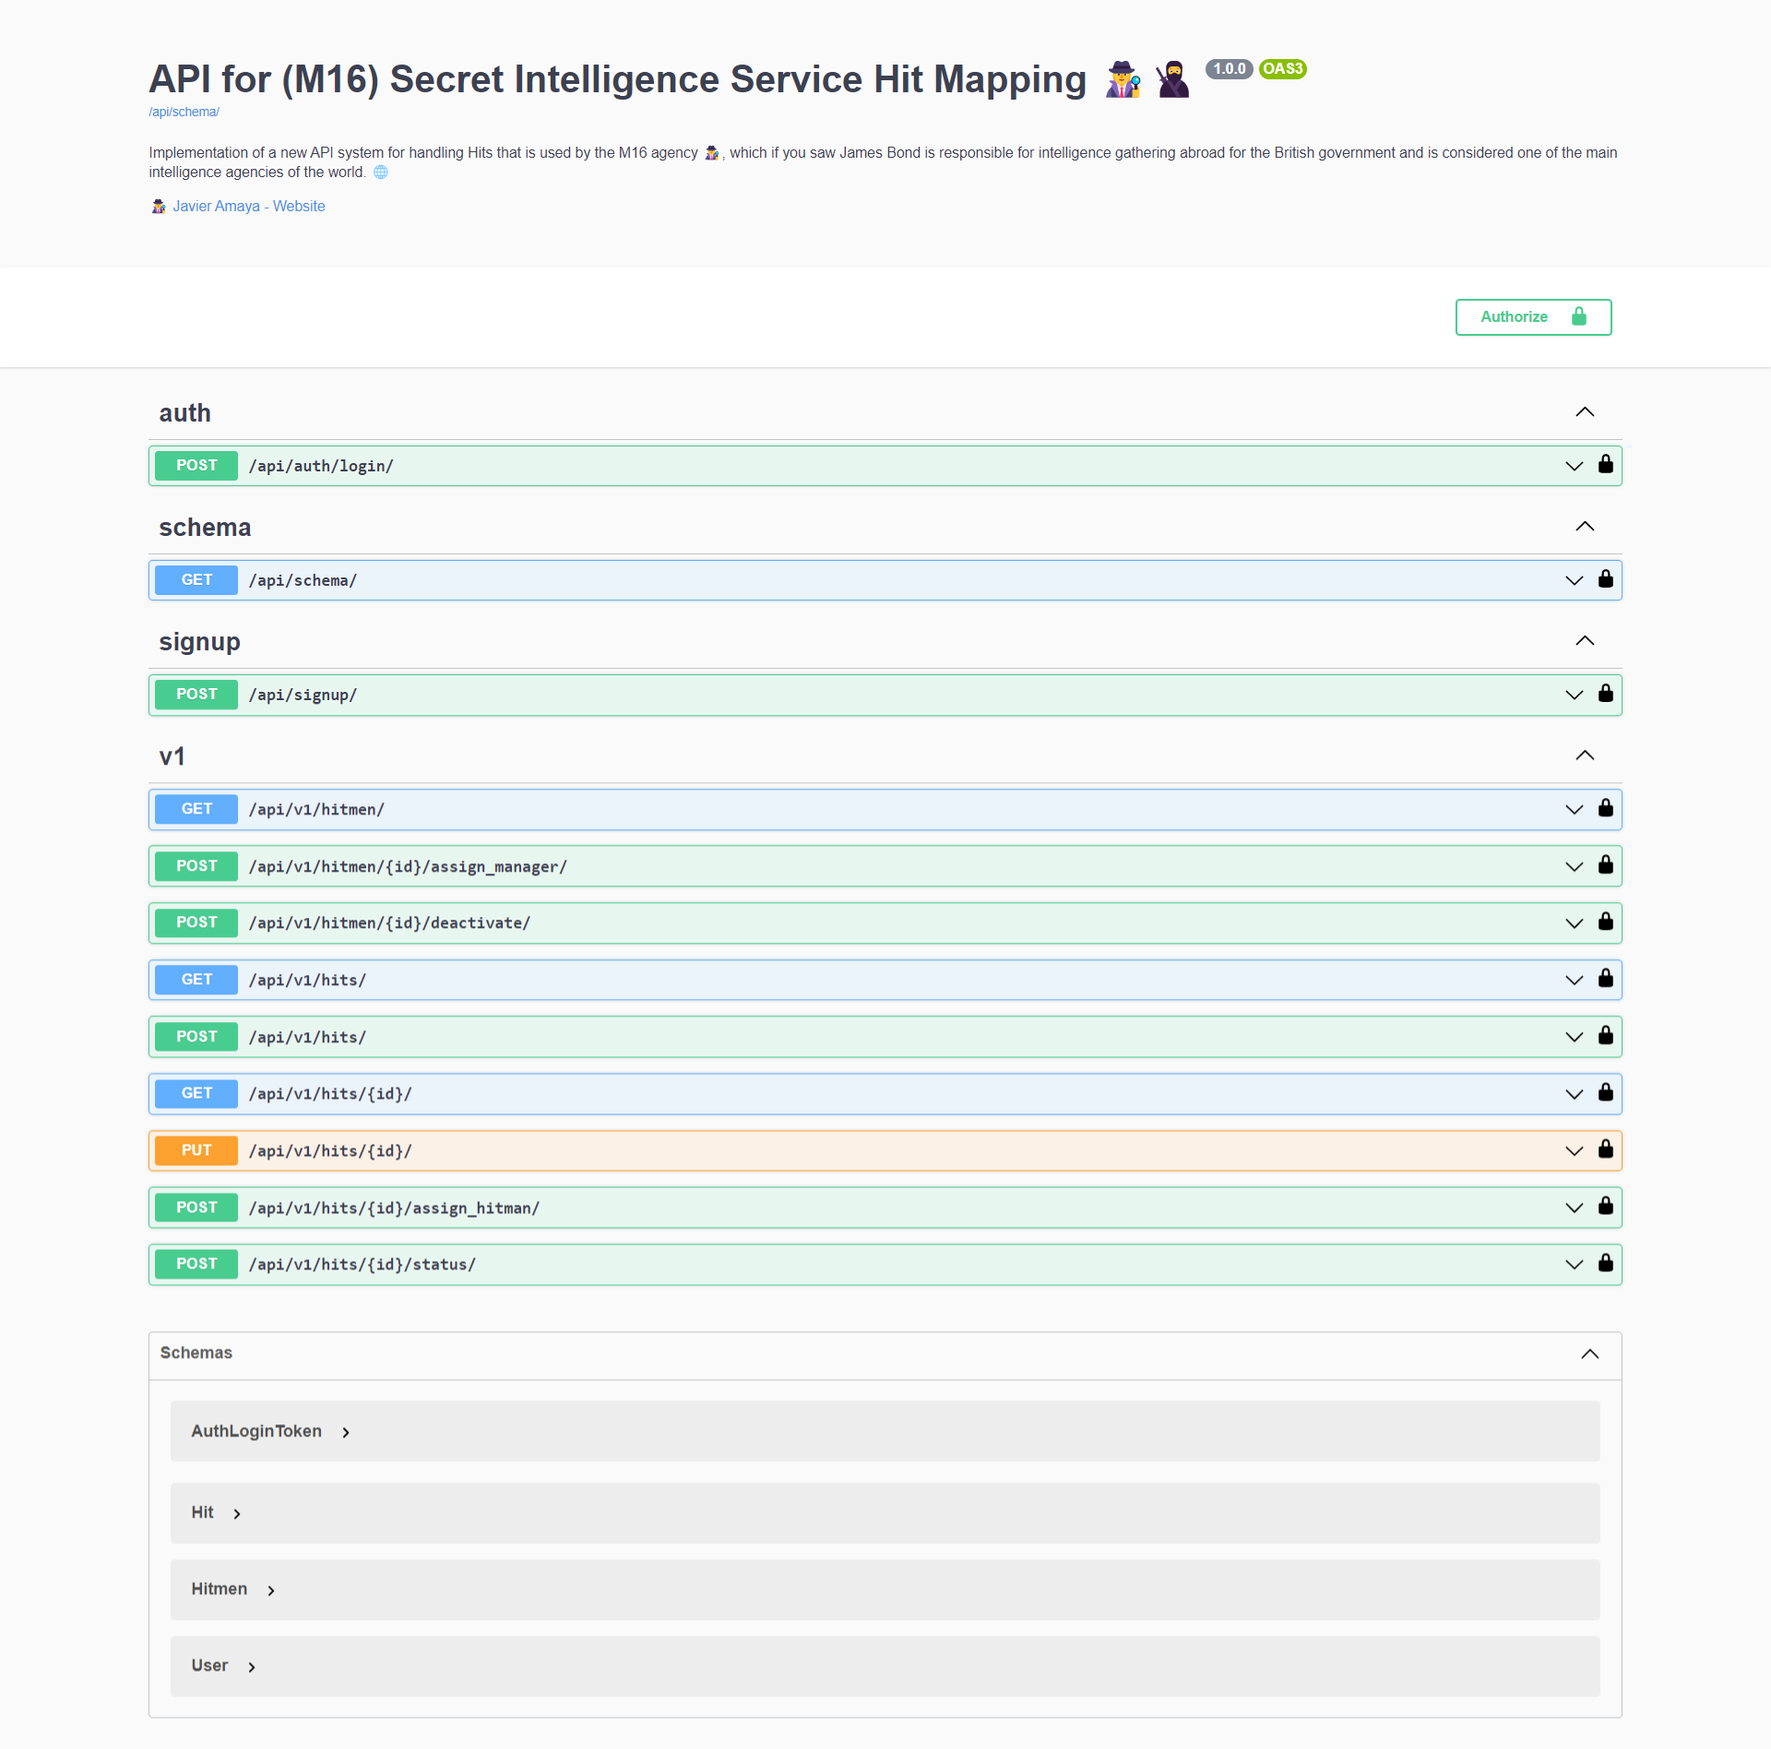
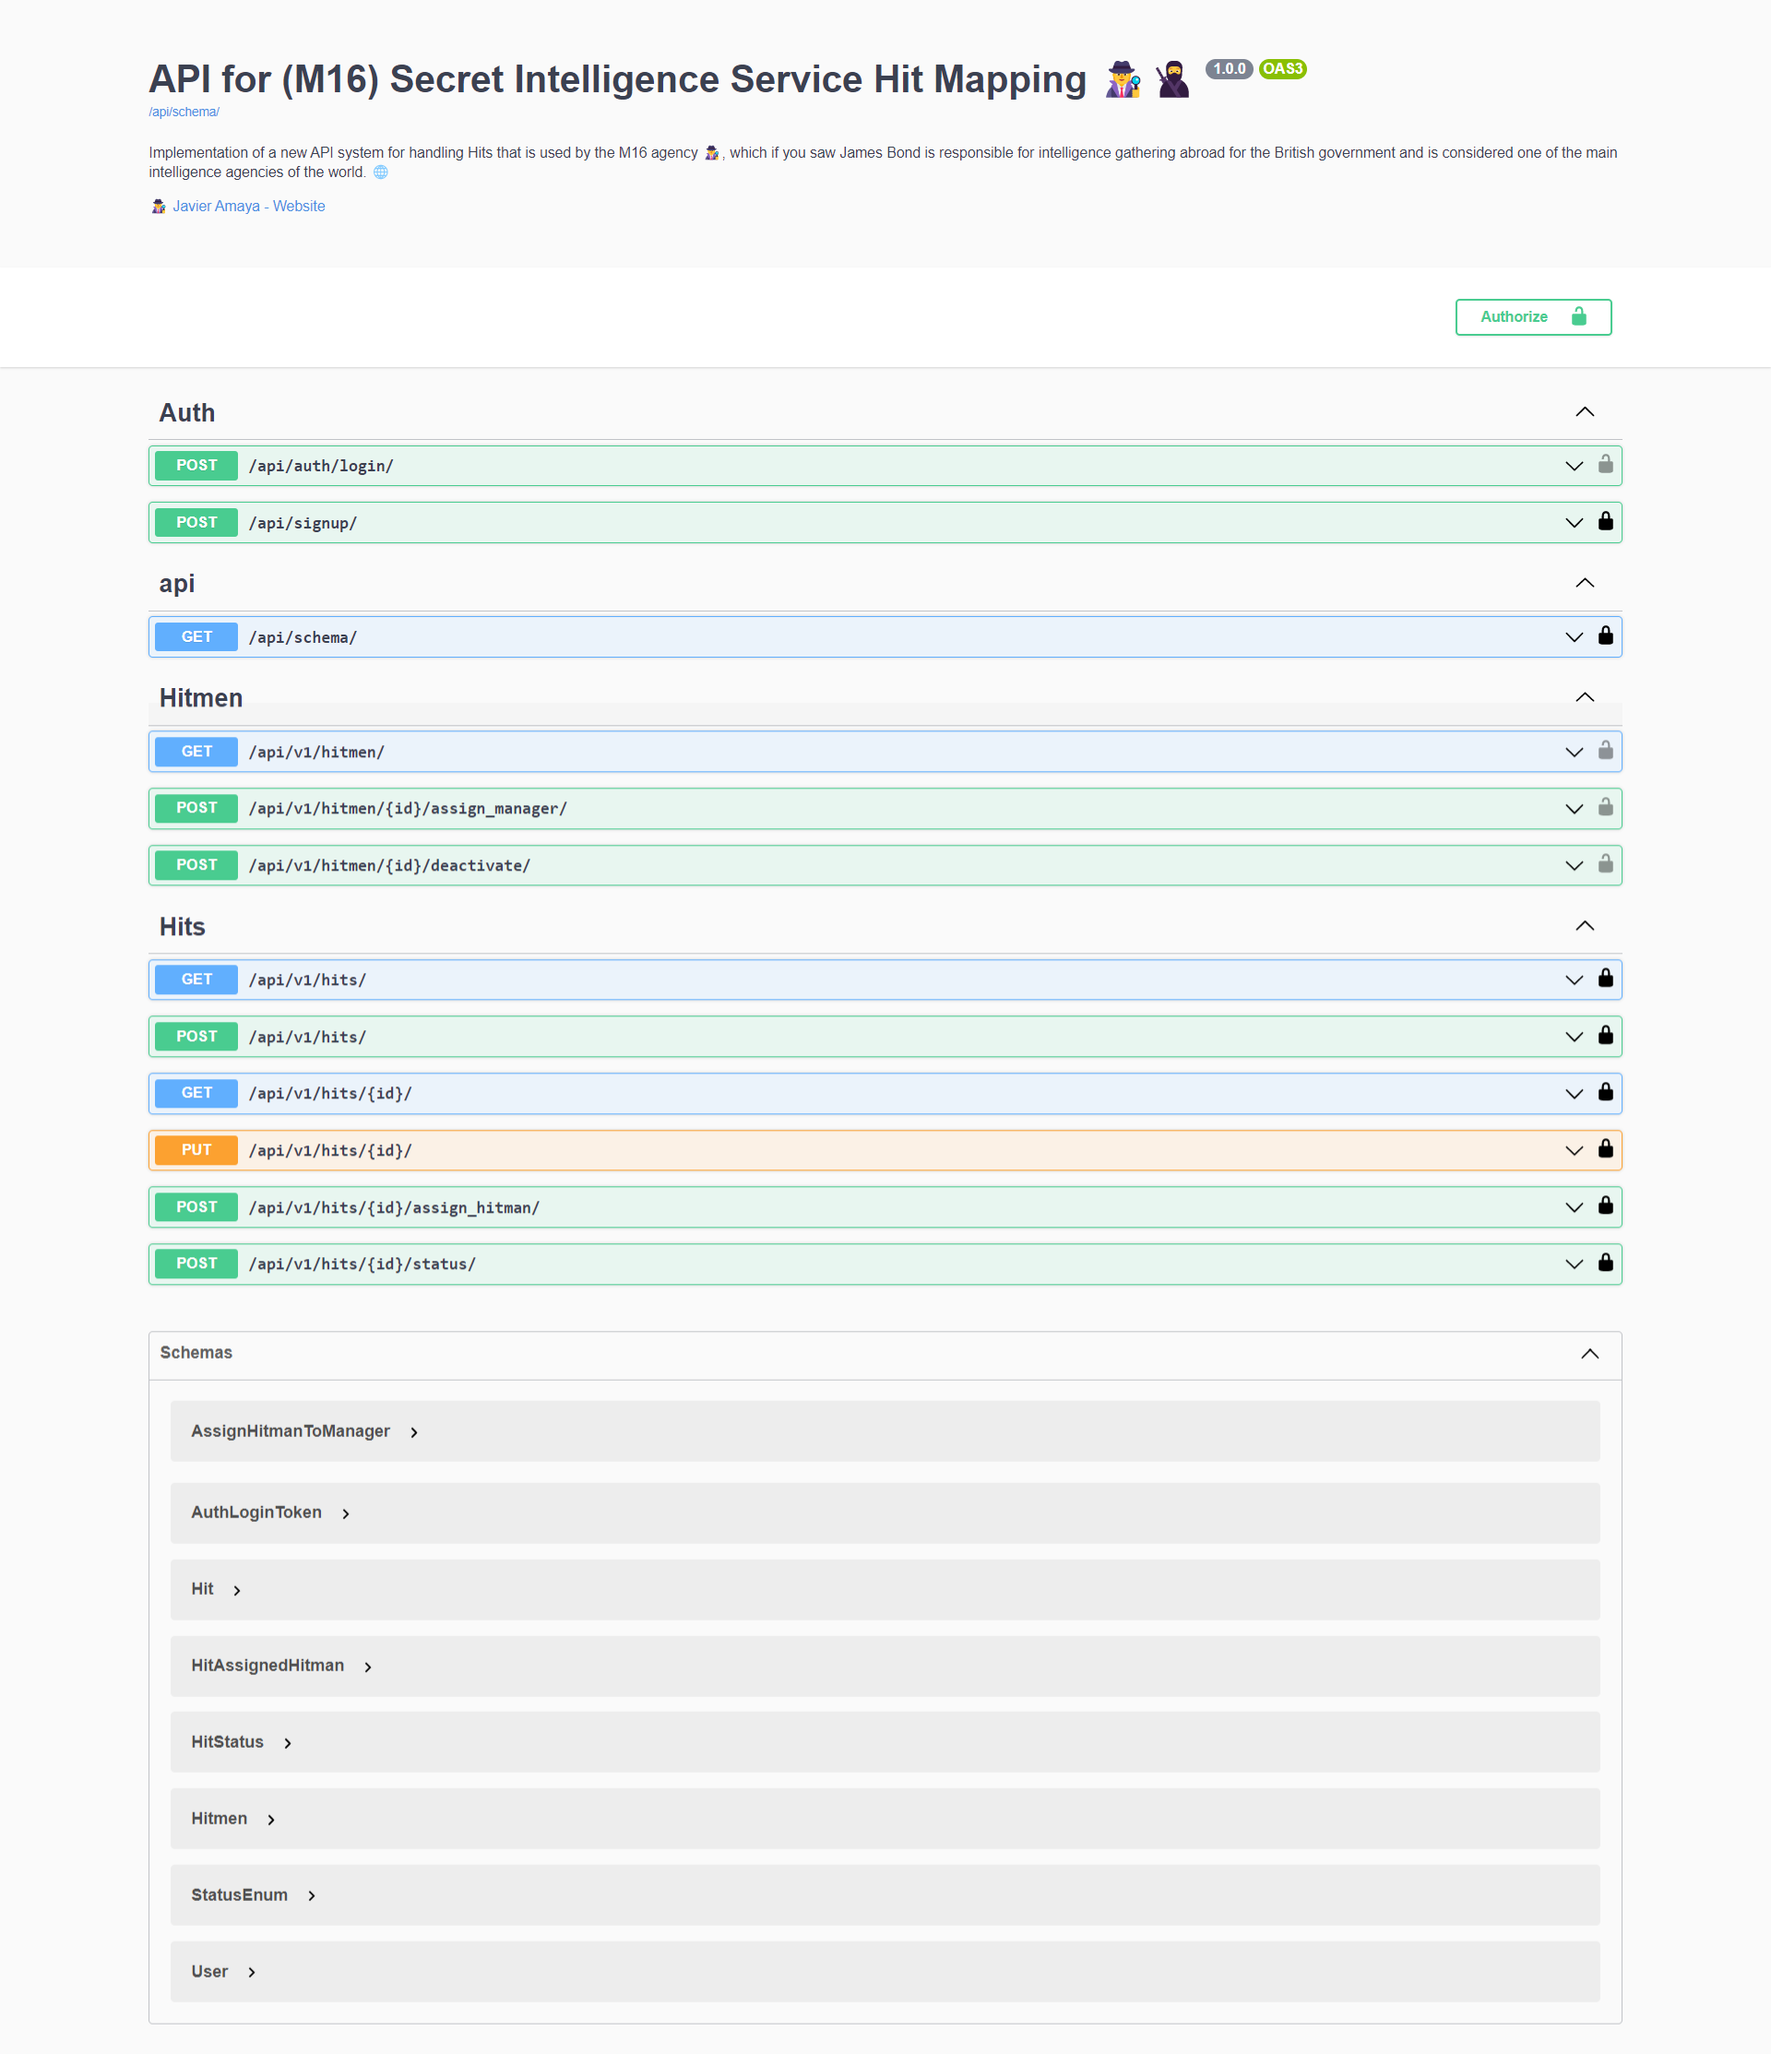
ref[api-documentation]: Add tags and correct requets body for endpoints

diff --git a/hits/views.py b/hits/views.py
@@ -22,6 +22,10 @@ class HitViewSet(viewsets.ViewSet):
     serializer_class = HitSerializer
     queryset = Hit.objects.all()
 
+    @extend_schema(
+        tags=["Hits"],
+        description="List all Hits.",
+    )
     @permission_classes([IsHitman, IsManager, IsBigBoss])
     def list(self, request):
         user = request.user
@@ -34,14 +38,20 @@ class HitViewSet(viewsets.ViewSet):
         serializer = HitSerializer(queryset, many=True)
         return Response(serializer.data, status=status.HTTP_200_OK)
 
+    @extend_schema(
+        tags=["Hits"],
+        description="Hits Detail.",
+    )
     @permission_classes([IsManager, IsBigBoss])
     def retrieve(self, request, pk=None):
         hit = get_object_or_404(self.queryset, pk=pk)
         serializer = HitDetailSerializer(hit)
         return Response(serializer.data, status=status.HTTP_200_OK)
 
+    @extend_schema(
+        tags=["Hits"], request=HitSerializer, description="Create Hits"
+    )
     @permission_classes([IsManagerOrBigBoss])
-    @extend_schema(request=HitSerializer, description="Create Hits")
     def create(self, request):
         serializer = HitSerializer(data=request.data)
         if serializer.is_valid():
@@ -55,7 +65,9 @@ class HitViewSet(viewsets.ViewSet):
                 serializer.errors, status=status.HTTP_400_BAD_REQUEST
             )
 
-    @extend_schema(request=HitSerializer, description="Update Hits")
+    @extend_schema(
+        tags=["Hits"], request=HitSerializer, description="Update Hits"
+    )
     @permission_classes([IsAuthenticated, IsBigBoss])
     def update(self, request, pk=None):
         hit = Hit.objects.get(pk=pk)
@@ -71,11 +83,13 @@ class HitViewSet(viewsets.ViewSet):
                 serializer.errors, status=status.HTTP_400_BAD_REQUEST
             )
 
-    @action(detail=True, methods=["post"])
     @extend_schema(
-        request=HitStatusSerializer, description="Update Hits' status"
+        tags=["Hits"],
+        request=HitStatusSerializer,
+        description="Update Hit status valida options (failed, completed)",
     )
     @permission_classes([IsAuthenticated, IsHitman, IsManager, IsBigBoss])
+    @action(detail=True, methods=["post"])
     def status(self, request, pk=None):
         hit = get_object_or_404(self.queryset, pk=pk)
 
@@ -94,6 +108,11 @@ class HitViewSet(viewsets.ViewSet):
                 serializer.errors, status=status.HTTP_400_BAD_REQUEST
             )
 
+    @extend_schema(
+        tags=["Hits"],
+        request=HitAssignedHitmanSerializer,
+        description="Update Hits' status",
+    )
     @permission_classes([IsAuthenticated, IsBigBoss])
     @action(detail=True, methods=["post"])
     def assign_hitman(self, request, pk=None):

diff --git a/hitmen/views.py b/hitmen/views.py
@@ -8,6 +8,8 @@ from rest_framework.decorators import action
 from rest_framework.exceptions import PermissionDenied, ValidationError
 from rest_framework.permissions import IsAuthenticated
 from rest_framework.response import Response
+from drf_spectacular.utils import extend_schema
+
 
 from core.models import ManagerUser
 from core.permissions import IsManagerOrBigBoss
@@ -22,6 +24,10 @@ class HitmenViewSet(viewsets.ViewSet):
     queryset = get_user_model().objects.all()
     serializer_class = HitmenSerializer
 
+    @extend_schema(
+        tags=["Hitmen"],
+        description="List all hitmen.",
+    )
     def list(self, request):
         user = request.user
 
@@ -39,6 +45,11 @@ class HitmenViewSet(viewsets.ViewSet):
         serializer = HitmenSerializer(queryset, many=True)
         return Response(serializer.data, status=status.HTTP_200_OK)
 
+    @extend_schema(
+        tags=["Hitmen"],
+        request=None,
+        description="Deactivate Hitman",
+    )
     @action(detail=True, methods=["post"])
     def deactivate(self, request, pk=None):
         user = get_object_or_404(self.queryset, pk=pk)
@@ -65,6 +76,7 @@ class HitmenViewSet(viewsets.ViewSet):
             )
 
     @extend_schema(
+        tags=["Hitmen"],
         request=AssignHitmanToManagerSerializer,
         description="Assign manager to Hitman",
     )

diff --git a/user/views.py b/user/views.py
@@ -1,16 +1,25 @@
 from rest_framework import generics
+from drf_spectacular.utils import extend_schema
 from rest_framework.authtoken.views import ObtainAuthToken
 from rest_framework.settings import api_settings
 
 from user.serializers import AuthLoginTokenSerializer, UserSerializer
 
 
+@extend_schema(
+    tags=["Auth"],
+    description="Register Usser in the system",
+)
 class CreateUserView(generics.CreateAPIView):
     """Create a new user in the system"""
 
     serializer_class = UserSerializer
 
 
+@extend_schema(
+    tags=["Auth"],
+    description="Login",
+)
 class CreateLoginTokenView(ObtainAuthToken):
     """Create a new auth token for user"""
 

diff --git a/design-docs/design-doc.md b/design-docs/design-doc.md
@@ -1,0 +1,144 @@
+# Document Design for International Spy Agency 🕵♂
+---
+
+## Overview: Problema a resolver
+
+We’re building a simple tool for an international spy agency. The agency conducts
+planned assassinations and has done so for decades. But it needs a new system
+to assign assassinations (“hits”).
+
+The general user is a hitman. He can be assigned a hit and see it on his list of
+upcoming work. Typically, it succeeds and is closed out. But occasionally things
+don’t work out and the target lives. In those cases, we assume the target hires
+security and thus the case is forever closed, as a failed mission.
+Like everyone else, hitmen have bosses. These are directly in charge of a group
+of hitmen and can create hits and assign them. But they can only assign hits
+to the hitmen they manage.
+
+Finally, there’s the big boss of the agency - Giuseppi . He does not manage managers directly. Rather, he just has free
+access to assign hits to anyone in the system. Even managers.
+
+But when a new employee comes into the spy agency, he need not be added to The Boss’list. It’s automatic.
+
+The boss is also in charge of assigning hitmen to managers. Only he can do that.
+For simplicity, the boss is always the first user in the database.
+
+No special indications need to be added to flag the user as the boss.
+
+Sadly, our hitmen do occasionally die in the field. Or worse, retire from the industry.
+
+In this case, they can no longer be assigned hits and can no longer use the system.
+
+Managers and The Boss can however, still check old assignments for these hitmen.
+
+### Alcance(Scope)
+
+### Casos de uso
+
+* Login
+    * Como usuario de la agencia puedo iniciar sessión con el usuario y constraseña 💚
+
+* Register
+  * Como usuario de la plataforma me gustaria poder registrame con mi email y contraseña 💚
+  * Todo usario nuevo que se registre se asigna al las lsita de hitman del big boss
+
+
+* Hitman(color verde)
+
+    -- Hits
+    * Como hitman me gustaria ver mis hits asignados (filtro activos) 💚 DONE
+    * Como hitman me gustaría ver el detalle de un hit 💚 DONE
+    * Como hitman me gusataria marcar como Failed o Completed un hit asignado.
+    * Como hitman retirado o caido en servicio no puedo volver a usar el sistema
+
+* manager (color azul)
+    * Como manager me gusatrpia poder desactivar a los hitman (solo si esta desactivado) 💚 DONE
+
+    -- Hits
+    * Como manager puedo assignar un hitman a un hit, (solo si el hitman esta a mi cargo) 💚 DONE
+    * Como manager me gustaría ver todos mis hits asignados o los de mis hitman (relcion) 💚 DONE 🍎 pendiente el filtro para ver los hits de mis managers
+    * Como manager me gustaría ver el detalle de un hit 💚 DONE
+    * Como manger me gusatría crear hits
+    * Como big boss me gustaria poder cambiar al asignado de los hits abiertos 💚 DONE
+
+    * Como Manager si un hitman cae en una mision me gusataria marcar como Failed o Completed su hit asignado. 💚 DONE
+
+    * * Como manager me gustaría asignar toneladas de hits. (optional ✅)
+
+
+* Giuseppi (The big boss)
+
+    -- Himen
+    * Como big boss me gusatria poder ver el detalle de un hitman 💚 DONE
+    * Como big boss puedo ver a todos los hitman y manager a mi cargo 💚 DONE
+    * Como big boss puedo asignar hitman a un manager 💚 REPARAR VALIDACIONES
+    * Como big boss me gusatrpia poder desactivar a los hitman (solo si esta desactivado) 💚 DONE
+    * Como big boss si un hitman cae en una mision me gusataria marcar como Failed o Completed su hit asignado. 💚 DONE
+
+    -- Hits
+    * Como big boss puedo ver todos los hits creados 💚 DONE
+    * Como big boss me gustaría ver el detalle de un hit 💚 DONE
+    * Como big boss puedo asignar un user a un hit 💚 DONE
+    * Como big boss me gusatria poder crear hits 💚 DONE
+    * Como big boss me gusatria poder editar los hits 💚 DONE
+
+
+Notas:
+* El hitman al registrarse en la pagina este de inicio se asigan a la lista de elementos del big boss por defecto 💚 done
+* El big boss puede asignar un hitman a un manager 💚DONE
+* Si el hitma esta desactivado sus antiguas asignaciones deben poder verse en el sistema por el bog boss y el manager
+* La mision puede ser cerrada tanto por el big boss y el manger del hitman ya que si una mision el objetivo muere pero el costo es el hitma esa mision se completo y se marca como tal
+
+#### Out of Scope (casos de uso No Soportados)
+
+* Hitman
+  * Como hitman me gustaria poder asignarme mis propios hits
+
+* Manager
+  * Como hitman me gustaria poder asignarme mis propios hits
+  * Como manager me gustaria poder asignarme mis propios hits
+  * Como manager me gustaria poder eliminar hits
+  * Cómo manager me gustaria poder asignar a más de un hitman en una hit.
+
+
+##### Big Boss
+* Como manager me gustaria poder asignarme mis propios hits
+* Como big boss me gusatria poder eliminar hits
+
+
+* Manager
+  * Como Manager no puedo asignar un hit a una hitman (muerto/retirado)
+  * Como manager me gustaria poder volver a activar a un hitman retirado
+  * Como manager me gusatria poder asiganrle un hit a un big boss
+  * Como manager no puedo asignar un hitman a otro cuyo rol no sea de manager
+
+* Big boss
+ * Como big boss puedo cambiar el rol de un hitman a un manager
+ * como big boss no puedo asignar un hitman (muerto/retirado) a un manager
+ * Como Big boss no puedo asignar un hit a una hitman (muerto/retirado)
+ * Como Big boss me gustaria poder volver a activar a un hitman retirado
+ * Como Big boss no puedo asignar un hitman a otro cuyo rol no sea de manager
+
+
+Nota: Nadie puede asignar a si mismo a un hit ❌
+
+---
+
+## Arquitectura
+
+### Diagramas
+- API Design
+- diagramas de clases
+- diagramas de secuencias (no los se hacer) (evaluar si dedico tiempo a ello)
+
+### Modelo de datos
+
+- Diseño de entidades y atributos
+
+- Diseño de jsons de retorno y envio de información
+- Diseño de diagrama de entidad relación
+
+#### Test cases
+
+- Como manager no puedo asignar hits a un hitma cuyo status es retirado o caido en servicio.
+- Como big boss no puedo asignar hit a un hitman cuyo status es retirado o caido en servicio
